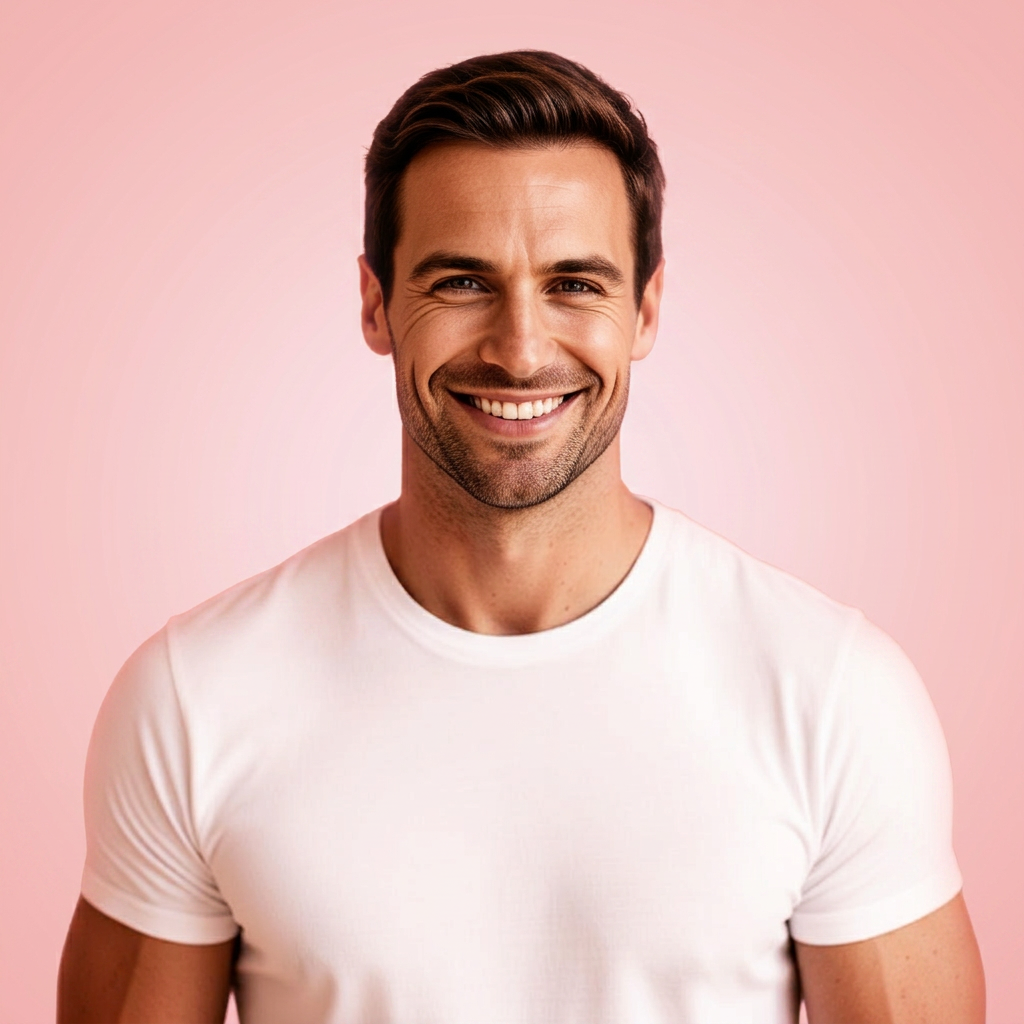
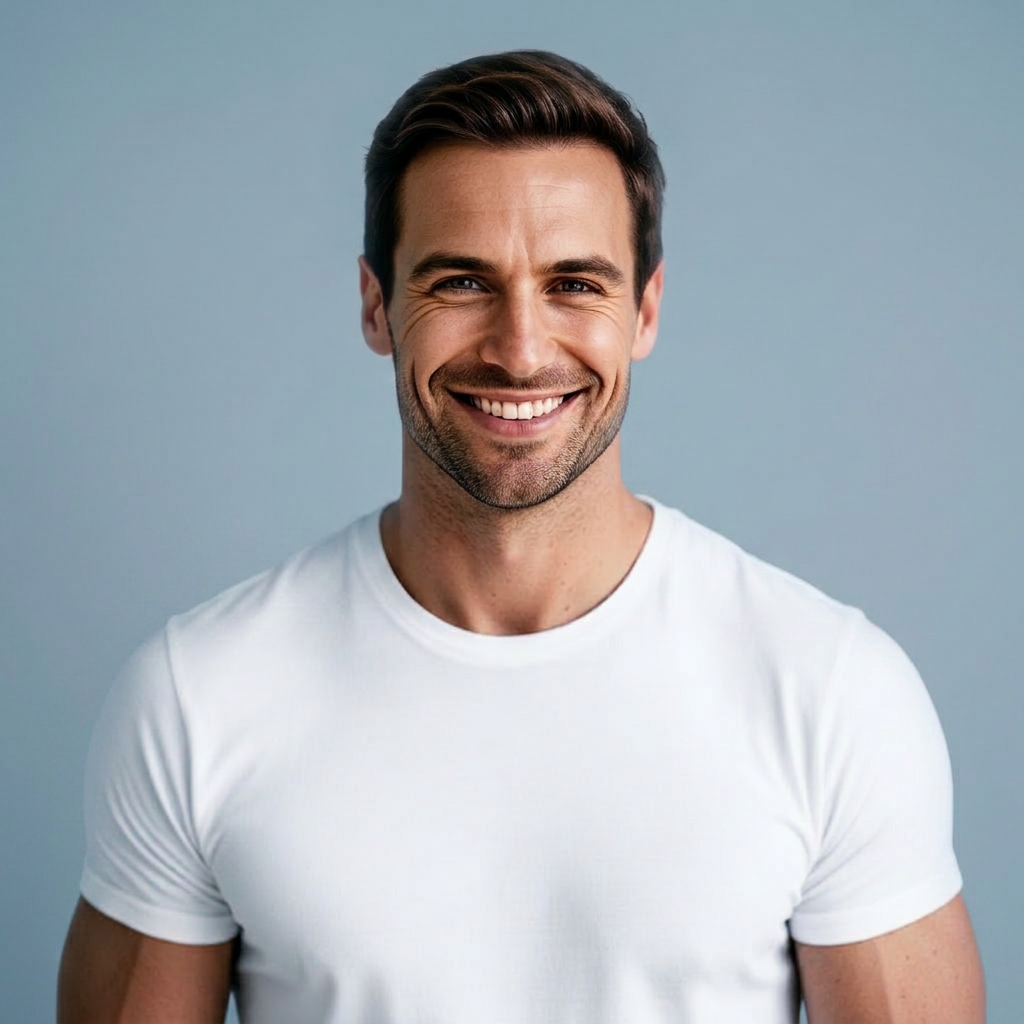
Changes

diff --git a/src/index.css b/src/index.css
@@ -6,39 +6,39 @@
 
 @layer base {
   :root {
-    --background: 0 0% 100%;
-    --foreground: 345 100% 15%;
+    --background: 200 25% 97%;
+    --foreground: 205 45% 18%;
 
-    --card: 351 80% 96%;
-    --card-foreground: 345 100% 15%;
+    --card: 200 25% 94%;
+    --card-foreground: 205 45% 18%;
 
     --popover: 0 0% 100%;
-    --popover-foreground: 345 100% 15%;
+    --popover-foreground: 205 45% 18%;
 
-    --primary: 345 100% 32%;
-    --primary-foreground: 0 0% 100%;
+    --primary: 205 45% 22%;
+    --primary-foreground: 200 25% 97%;
 
-    --secondary: 351 80% 88%;
-    --secondary-foreground: 345 100% 20%;
+    --secondary: 205 20% 82%;
+    --secondary-foreground: 205 45% 18%;
 
-    --muted: 351 80% 96%;
-    --muted-foreground: 345 30% 40%;
+    --muted: 205 20% 90%;
+    --muted-foreground: 205 15% 40%;
 
-    --accent: 348 100% 42%;
+    --accent: 205 38% 45%;
     --accent-foreground: 0 0% 100%;
 
-    --destructive: 0 84% 50%;
+    --destructive: 0 70% 50%;
     --destructive-foreground: 0 0% 100%;
 
-    --border: 351 60% 90%;
-    --input: 351 60% 88%;
-    --ring: 348 100% 42%;
+    --border: 205 20% 85%;
+    --input: 205 20% 82%;
+    --ring: 205 45% 22%;
 
     --radius: 1rem;
 
-    --hero-bg: 351 100% 86%;
-    --hero-foreground: 345 100% 15%;
-    --success: 145 60% 40%;
+    --hero-bg: 205 30% 78%;
+    --hero-foreground: 205 45% 18%;
+    --success: 140 25% 45%;
     --warning: 35 90% 55%;
 
     --sidebar-background: 0 0% 98%;
